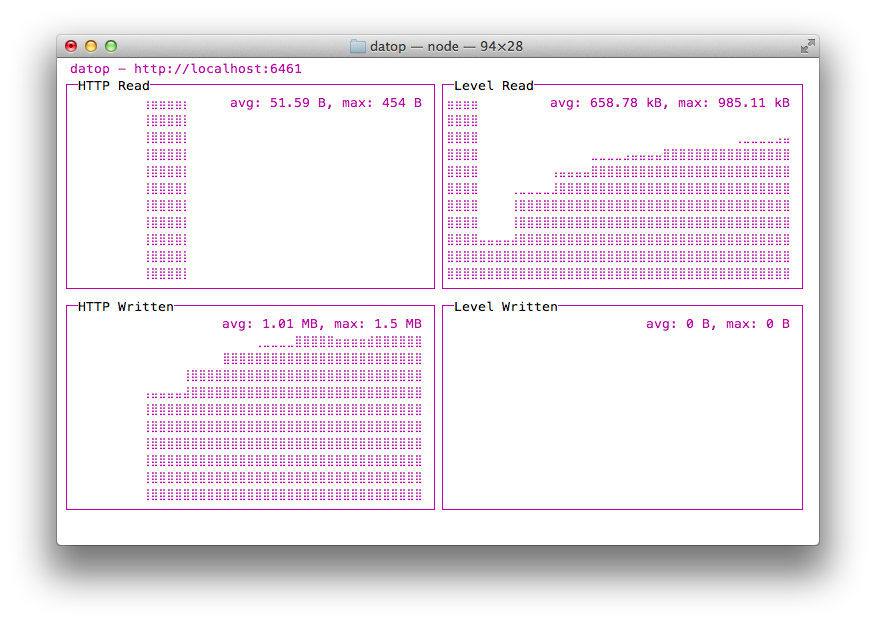
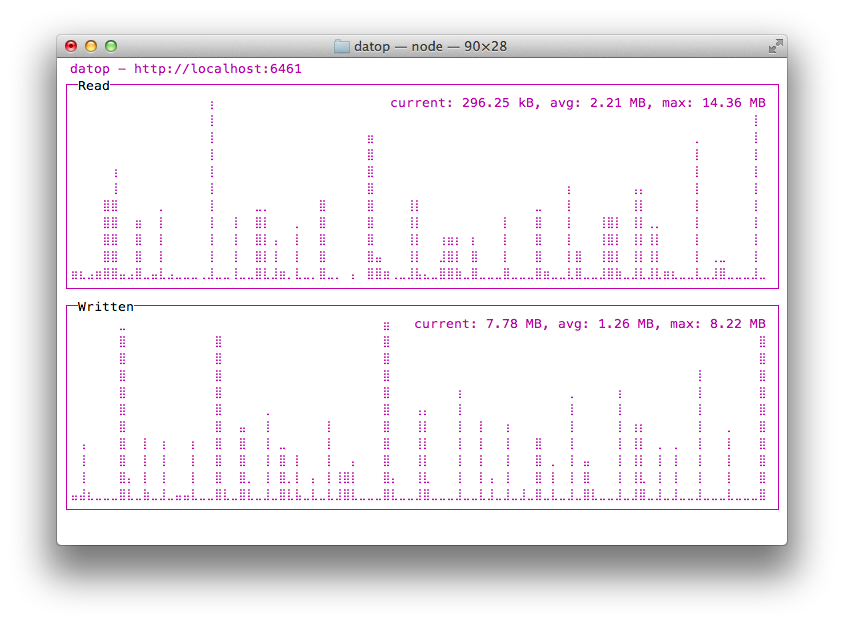
1.0.3 - combined read/write charts

diff --git a/chart.js b/chart.js
@@ -44,26 +44,28 @@ module.exports.draw = function(chart, position) {
   }
   
   chart.min = 0
-  chart.max = 1000 // 1kb
+  chart.max = 0 // 1kb
   chart.average = 0
   
+  var avgCount = 0
   // do first pass to determine min/max
   for (var i = 0; i < chart.width; i++) {
     var rawval = chart.values[chart.values.length - i]
     if (rawval > 0) {
+      avgCount++
       chart.average += rawval
       if (rawval < chart.min) chart.min = rawval
       if (rawval > chart.max) chart.max = rawval
     }
   }
   
-  chart.average = chart.average / chart.width
+  chart.average = ~~(chart.average / avgCount)
 
   for (var pos in chart.values) {
     var p = parseInt(pos, 10) + (chart.width - chart.values.length)
     var pval = computeValue(chart.values[pos])
     
-    if (p > 0 && pval > 0) {
+    if (p > 0 && chart.values[pos] > 0) {
       c.set(p, chart.height - 1)
     }
     
@@ -75,13 +77,16 @@ module.exports.draw = function(chart, position) {
   // Add percentage to top right of the chart by splicing it into the braille data
   var textOutput = c.frame().split("\n")
   
-  var msg = "avg: " + prettybytes(chart.average) + ', max: ' + prettybytes(chart.max)
+  var currentVal = prettybytes(chart.values[chart.values.length - 1])
+  var msg = "current: " + currentVal + ", avg: " + prettybytes(chart.average) + ', max: ' + prettybytes(chart.max)
   textOutput[0] = textOutput[0].slice(0, textOutput[0].length - msg.length) + msg
 
   return textOutput.join("\n")
   
   function computeValue(input) {
-    return ~~scale(input, chart.min, chart.max, 0, chart.height)
+    var max = chart.max
+    if (max < 1000) max = 1000
+    return ~~scale(input, chart.min, max, 0, chart.height)
   }
 }
 

diff --git a/screen.js b/screen.js
@@ -8,8 +8,9 @@ module.exports = Screen
 function Screen(host, theme) {
   if (!(this instanceof Screen)) return new Screen(host, theme)
   var self = this
-  var program = blessed.program()
-  process.program = program
+  var opts = {}
+  if (process.env.DEBUG) opts.log = './datop.log'
+  var program = blessed.program(opts)
   
   process.on('SIGINT', function() {
     self.kill()
@@ -90,6 +91,7 @@ Screen.prototype.createBox = function(opts) {
 }
 
 Screen.prototype.createChart = function(opts) {
+  var self = this
   var box = this.createBox(opts)
   var chart = dataChart.create(box)
   var position = 0
@@ -109,6 +111,7 @@ Screen.prototype.createChart = function(opts) {
   stream.box = box
   
   stream.render = function() {
+    if (process.env.DEBUG) self.program.log([chart.min, chart.max, chart.average, chart.values[chart.values.length - 1]])
     position++
     box.setContent(dataChart.draw(chart, position))
   }
